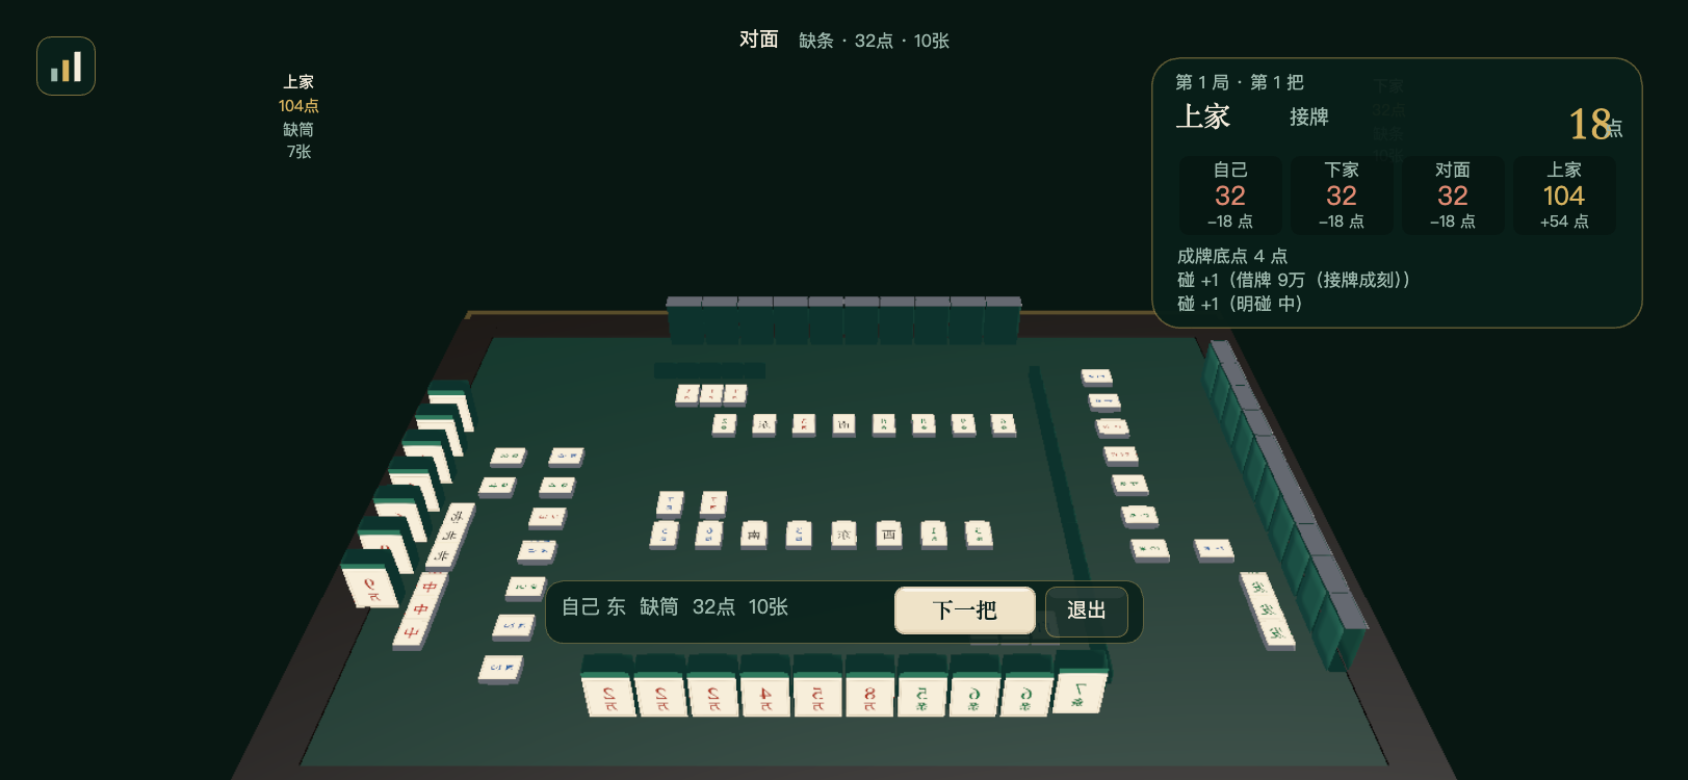
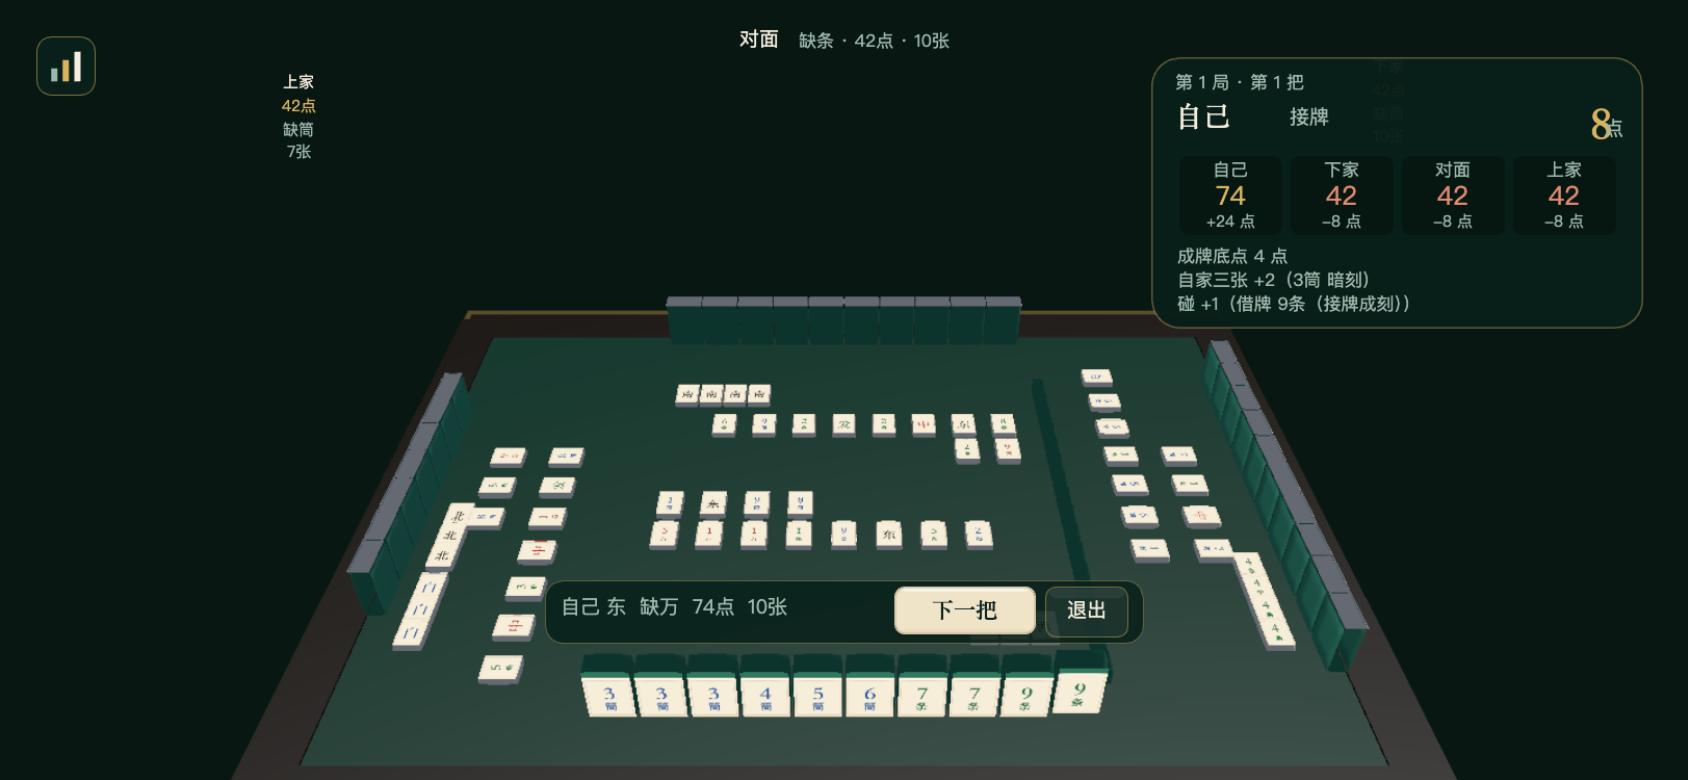
fix(layair): 修正牌面左右镜像
圆角牌面 UV 的 U 方向取反，数字/花色不再左右翻转。

diff --git a/layair/src/ui/Table3D.ts b/layair/src/ui/Table3D.ts
@@ -194,7 +194,7 @@ export class Table3D {
             dy /= len
             dz /= len
           }
-          verts.push(cx + dx * r, cy + dy * r, cz + dz * r, dx, dy, dz, i / seg, 1 - j / seg)
+          verts.push(cx + dx * r, cy + dy * r, cz + dz * r, dx, dy, dz, 1 - i / seg, 1 - j / seg)
         }
       }
       for (let j = 0; j < seg; j += 1) {
